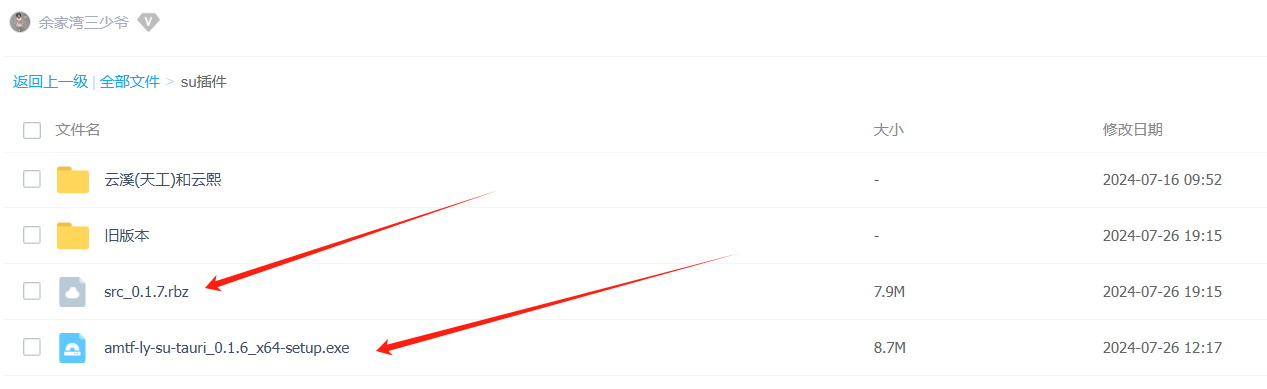
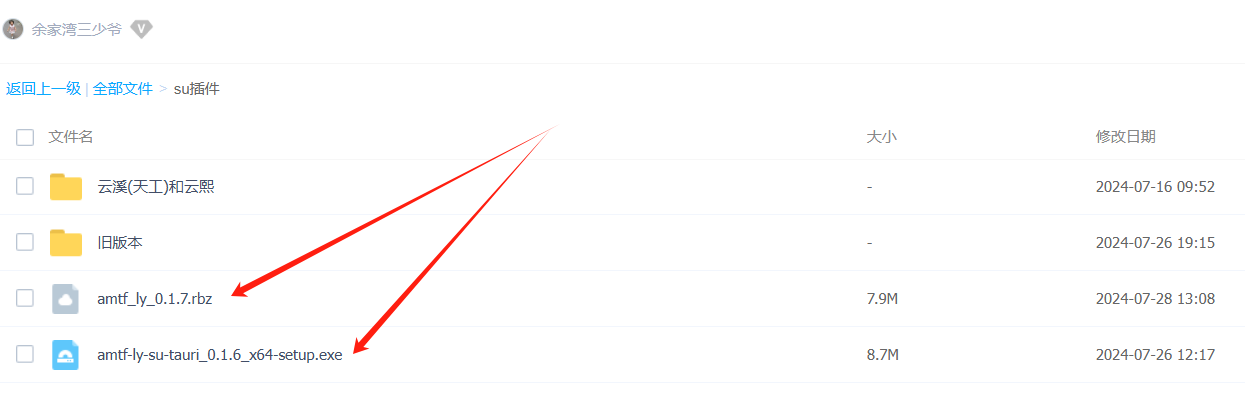
kk

diff --git a/docs-code/su/02.老鱼su拆单插件.md b/docs-code/su/02.老鱼su拆单插件.md
@@ -1,9 +1,17 @@
 # 老鱼su拆单插件
+## 前言
+虽然本插件老鱼是全职在折腾，但毕竟是小作坊，难免细节打磨不好、或者功能不全不高大……
+
+然而又但是，从2022年发布的开源免费版开始算起，也推销过一段时间了，已经有一定的用户在使用了，`又不是不能用`这个牛皮老鱼我还是敢吹的……
+
+所以我想说的是：如果您是刚试着用本插件，建议您先顺着他的套路来，看不惯、用不顺的地方，先不要急着掰正他(如果您本身是开发者就另说了，代码是开源的，您随意就好)，看在人民币花费不算多的份上，先凑合一下，看能不能先用着。当然，热烈欢迎随时随地随人，提出宝贵的改进意见，深入浅出交流探讨，共同把老鱼插件变得更好😄
+
+## 正文
 1. 主要功能：给`SketchUp`设计的柜子加上`三合一`等`五金件`孔位，导出成`dxf`或者`ban`文件，对接机器进行加工
 2. 收费：基础功能免费，其他功能按相应的 会员级别 授权
 3. 会员级别：
-   1. 充电会员 ￥ `88` 元，对应功能👉`导出dxf` (对接天工、云熙)
-   2. 更上层楼会员 ￥ `666` 元，对应功能👉`见光面封边`、`导出ban文件`(对接六面钻)
+   1. `充电会员` ￥ `88` 元，对应功能👉`导出dxf` (对接天工、云熙)
+   2. `更上层楼会员` ￥ `666` 元，对应功能👉`见光面封边`、`导出ban文件`(对接六面钻)
        + 帮忙推广可以抵扣费用，1个自媒体平台发布1条推广信息，抵扣3元，获赞1个，抵扣1元，每天限额10元，总限额300元
 4. 会员注册：安装软件后，在用户界面自行注册……收费功能试用期30天……新增的收费功能需要试用的，请联系老鱼增加试用期
 5. 使用交流优先选择在群里进行，抱团队的大腿……陌生朋友直接加微信也行，但是请注明来意
@@ -11,27 +19,31 @@
 7. 安装包链接：https://pan.baidu.com/s/1FMEDiQ0mhR9jzT0hM0dNtg 提取码：amtf
 
 ## 安装
-安装文件有两个👇
+安装文件有两个，都需要安装👇
 ![alt text](images/02.老鱼su拆单插件-image.png)
-1. 点击外置exe程序(以后简称exe) `amtf-ly-su-tauri.exe` 进行安装
+
+### 安装步骤
+1. 双击`amtf-ly-su-tauri_版本号-setup.exe` (以后简称exe) 进行安装
 
     安装后首次运行，可能会提示下载 .net 基础文件，请按提示下载安装
     ![alt text](/imgs/su/dotnet.png)
+2. 按照常规的su插件安装方法，安装`amtf_ly_版本号.rbz`
 
-2. 下载su内置插件程序 `amtf_ly.rbz`，按照常规的su插件安装方法，进行安装
-
-
-## 使用步骤
-演示视频地址 https://space.bilibili.com/687821311/channel/seriesdetail?sid=4187682&ctype=0
-
-1. 第一步! 开启外置exe程序
-1. 第二步！ 点击`另存为群组`按钮，将设计阶段的su文件另存为拆单阶段使用的文件
+## 使用
+1. 第一步! 开启exe程序
+1. 可以使用afu321的动态组件、或者自己开发的动态组件，设计好柜子，把su文件保存好！
+2. 点击`设置`按钮，在弹出页面中，点击`另存为群组`，确认好设置选项
+   1. 如果是afu321组件，并且su模型中不需要开料的无关元素较少，可以直接使用默认值
+   2. 如果su模型中不需要开料的元素较多(比方说墙顶地，软装都在模型里面)，则勾选`挑选指定_顶层组件`选项，根据情况可以进行进一步设置
+   ![alt text](images/02.老鱼su拆单插件-image-2.png)
+3. 点击工具栏的`另存为群组`按钮
+   1. 作用是将设计阶段的su文件，另存为拆单阶段使用的文件
      + 附注：
      老鱼su拆单插件，目前适用的场景：全部拟拆单 板件是 `群组形式` ,并且全部是 `顶层模型`(设计阶段使用组件形式，拆单阶段使用群组形式)
-2. 其他步骤先省略……得空分步骤录制简短操作视频
-3. 注意事项！ 
+4. 其他步骤先省略……得空分步骤录制简短操作视频
+5. 注意事项！ 
      + 拆单阶段，板件尺寸需要`再次调整`的时候，不要再使用`缩放`的方式，可以使用su自带的`推/拉`功能，或者其他插件提供的`移动顶点`的功能
-4. 退出exe的时候，需要点鼠标右键退出
+6. 退出exe的时候，需要点鼠标右键退出
 
 ## 更新
 <agx/>
